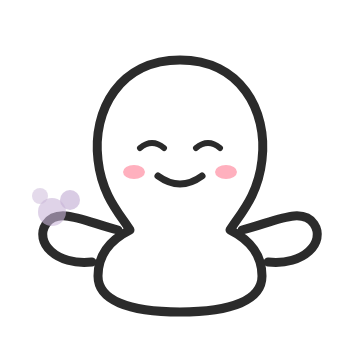
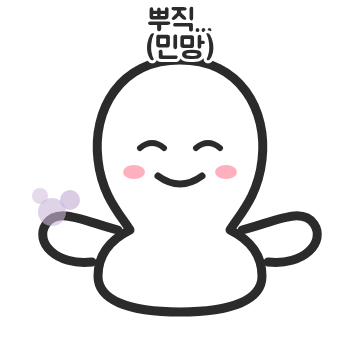
kakao-emoticon: A7(변기토리) 32종 정식 제작 — 대사 삽입 + 팔 포즈 보강
- 12종 데모를 32종 정식 세트로 확장, 문구 대사를 이미지에 직접 새겨넣음
  (Jua체, 흰 테두리로 가독성 확보, 긴 문구는 자동 2줄).
- 한글 폰트가 이 환경에 기본 설치 안 돼있어 Jua 폰트를 jsdelivr 경유로
  받아 설치(재현 방법 A7-toilet-humor.md에 기록).
- 팔 포즈 3종 신규 추가(prayer/wave_hello/warrior) + 기존 point_down 포즈
  좌표 개선(1차 시도에서 리본처럼 꼬였던 문제 완화).
- 아이콘(78x78) 제작 완료. 전량 17~22KB, 150KB 한도 대비 매우 가벼움.
- candidates.md 표 위치 정리(A7이 잘못된 섹션에 끼어있던 것 수정).

Changed region(s): [[0.3972, 0.0, 0.6111, 0.1833]]

diff --git a/kakao-emoticon/execution/products/toilet-lineart-a7/scripts/generate_svg.py b/kakao-emoticon/execution/products/toilet-lineart-a7/scripts/generate_svg.py
@@ -23,12 +23,14 @@ ARMS = {
     "up_both": 'M120,222 C92,196 66,164 48,176 C30,188 38,222 70,240 C92,252 112,244 120,222 M240,222 C268,196 294,164 312,176 C330,188 322,222 290,240 C268,252 248,244 240,222',
     "crossed": 'M120,226 C90,232 150,250 150,236 M240,226 C270,232 210,250 210,236',
     "hug_belly": 'M128,238 C104,252 96,276 122,282 C142,286 152,268 148,252 M232,238 C256,252 264,276 238,282 C218,286 208,268 212,252',
-    "one_up_one_down": 'M118,230 C86,222 58,206 46,224 C34,242 56,266 92,262 M244,224 C270,198 298,168 314,180 C330,192 320,222 292,238 C272,248 254,240 244,224',
-    "point_down": 'M118,230 C86,222 58,206 46,224 C34,242 56,266 92,262 M228,236 C232,262 236,286 216,296 C198,304 184,286 194,270 C202,258 214,244 228,236',
+    "point_down": 'M118,230 C86,222 58,206 46,224 C34,242 56,266 92,262 M228,224 C244,250 248,278 232,298 C224,308 210,300 214,286 C218,272 224,248 228,224',
     "wash": 'M132,220 C110,214 92,212 90,230 C88,248 112,254 134,246 M228,220 C250,214 268,212 270,230 C272,248 248,254 226,246',
     "shrug": 'M116,222 C82,208 50,208 44,228 C38,246 66,258 100,244 M244,222 C278,208 310,208 316,228 C322,246 294,258 260,244',
     "phone": 'M118,230 C86,222 58,206 46,224 C34,242 56,266 92,262 M238,214 C252,186 244,150 224,148 C210,147 204,164 214,178 C222,190 232,200 238,214',
     "block": 'M118,230 C86,222 58,206 46,224 C34,242 56,266 92,262 M232,198 C264,182 300,176 312,192 C324,208 300,222 268,220 C250,219 236,210 232,198',
+    "prayer": 'M130,224 C110,244 108,266 128,270 C144,273 156,258 152,244 C148,230 138,224 130,224 M230,224 C250,244 252,266 232,270 C216,273 204,258 208,244 C212,230 222,224 230,224',
+    "wave_hello": 'M118,230 C86,222 58,206 46,224 C34,242 56,266 92,262 M240,222 C268,196 296,166 306,140 C312,124 296,118 288,132 C282,144 268,168 252,190 C246,200 240,210 240,222',
+    "warrior": 'M130,224 C104,232 78,238 70,254 C64,266 78,280 96,270 C108,264 120,244 130,224 M230,224 C256,232 282,238 290,254 C296,266 282,280 264,270 C252,264 240,244 230,224',
 }
 
 EYEBROWS = {
@@ -72,6 +74,29 @@ ICONS = {
 BLUSH = '<ellipse cx="134" cy="172" rx="11" ry="7" fill="#FF8FA3" opacity="0.7"/><ellipse cx="226" cy="172" rx="11" ry="7" fill="#FF8FA3" opacity="0.7"/>'
 
 
+def build_text(text):
+    """대사를 몸통 위쪽에 Jua체로 굵게, 흰 테두리를 둘러 어떤 배경에서도 잘 읽히게 배치."""
+    if not text:
+        return ""
+    # 글자 수가 많으면 자동으로 두 줄로 나눔(카카오 대사형 이모티콘 관례)
+    if len(text) > 7 and " " in text:
+        mid = len(text) // 2
+        split_at = text.rfind(" ", 0, mid + 3)
+        if split_at == -1:
+            split_at = text.find(" ")
+        line1, line2 = text[:split_at], text[split_at + 1:]
+        return (
+            f'<text x="180" y="30" text-anchor="middle" font-family="Jua" font-size="30" '
+            f'fill="#2B2B2B" stroke="#ffffff" stroke-width="6" paint-order="stroke" stroke-linejoin="round">{line1}</text>'
+            f'<text x="180" y="58" text-anchor="middle" font-family="Jua" font-size="30" '
+            f'fill="#2B2B2B" stroke="#ffffff" stroke-width="6" paint-order="stroke" stroke-linejoin="round">{line2}</text>'
+        )
+    return (
+        f'<text x="180" y="44" text-anchor="middle" font-family="Jua" font-size="32" '
+        f'fill="#2B2B2B" stroke="#ffffff" stroke-width="6" paint-order="stroke" stroke-linejoin="round">{text}</text>'
+    )
+
+
 def build_svg(p):
     arms = ARMS[p["arms"]]
     eyebrows = EYEBROWS[p.get("eyebrows", "none")]
@@ -79,6 +104,7 @@ def build_svg(p):
     mouth = MOUTHS[p["mouth"]]
     icon = ICONS.get(p.get("icon", "none"), "")
     blush = BLUSH if p.get("blush", True) else ""
+    text = build_text(p.get("text", ""))
     return f'''<svg xmlns="http://www.w3.org/2000/svg" width="360" height="360" viewBox="0 0 360 360">
   <g fill="none" stroke="#2B2B2B" stroke-width="9" stroke-linecap="round" stroke-linejoin="round">
     <path d="{BODY}"/>
@@ -89,6 +115,7 @@ def build_svg(p):
   {mouth}
   {blush}
   {icon}
+  {text}
 </svg>
 '''
 

diff --git a/kakao-emoticon/execution/A7-toilet-humor.md b/kakao-emoticon/execution/A7-toilet-humor.md
@@ -1,0 +1,31 @@
+# A7 — "변기토리" 화장실 유머 이모티콘 (SVG 직접 제작)
+
+> 2026-08-15, 예슬 작성. 회장이 "레오나르도 없이 스스로 이미지 만들 수 있어?"라고 물은 데서 시작된 실험이 정식 시리즈로 발전했다.
+
+## 다른 시리즈와의 차이 — 제작 방식 자체가 다름
+
+- A3(일잘봇)·A4(새침냥이)·A6(몽글곰)은 전부 **Leonardo AI**로 생성한 래스터(JPG/PNG) 아트워크를 후처리한 것.
+- A7은 **외부 이미지 생성 AI를 전혀 쓰지 않는다.** 몸통 실루엣 하나를 SVG 경로로 고정해두고, 눈썹·눈·입·팔·아이콘·대사를 파이썬 딕셔너리 프리셋으로 조합해 32종을 코드로 직접 조립한 뒤 로컬 Chromium으로 PNG 렌더링한다. Leonardo의 "고정 시드+표정 교체" 원칙을 벡터로 재현한 것.
+- 장점: Leonardo API 크레딧 0원, 파일 용량 매우 가벼움(17~22KB, 150KB 한도의 1/7 수준), 캐릭터 일관성 100%(좌표 재사용이라 개체차 자체가 없음).
+- 단점: 유기적인 붓터치·그라데이션이 없어 스타일이 평면적. 팔 포즈 등 디테일을 늘리려면 사람이 좌표를 직접 조정해야 해서(AI처럼 프롬프트만 바꿔서 다양성이 안 나옴) 표현 폭에 품이 더 든다.
+
+## 캐릭터 컨셉 — "변기토리"
+
+- 정체성: 이름 없는 둥근 라인아트 캐�릭터(원래 몽글곰 SVG 데모의 몸통 실루엣)를 회장이 "변기통 같다"고 지적한 것을 그대로 살려 화장실 유머 전용 캐릭터로 채택.
+- 타겟: 일잘봇(직장인 유머)·새침냥이(반려동물)·몽글곰(커플)과 겹치지 않는 **화장실/생리현상 유머** — 카카오에서 꾸준히 잘 팔리는 검증된 장르(응가송류 캐릭터 다수 존재).
+- 표현 문법: 대사를 이미지에 직접 새겨 넣는(Jua체, 흰 테두리) 스타일 — 표정+대사 텍스트 조합으로 승부하는 카카오의 또 다른 주류 축(순수 표정형인 A3/A4/A6과 차별화).
+
+## 제작 방식 상세
+
+- `products/toilet-lineart-a7/scripts/generate_svg.py`: 몸통 고정 경로(BODY) + 팔 11종 프리셋(ARMS) + 눈썹 4종 + 눈 5종 + 입 7종 + 아이콘 9종 + 대사(Jua 폰트, 흰 테두리로 가독성 확보, 7자 넘고 공백 있으면 자동 2줄) 조합.
+- 한글 폰트가 이 실행환경에 기본 설치돼 있지 않아(Unifont만 있어 한글이 깨져 보임) Google Fonts "Jua"(jsdelivr CDN 경유)를 받아 `~/.fonts`에 설치해서 사용 — **세션이 바뀌면 이 폰트도 다시 설치해야 함**(재설치 방법: `curl -sSL -o ~/.fonts/Jua-Regular.ttf "https://cdn.jsdelivr.net/gh/google/fonts@main/ofl/jua/Jua-Regular.ttf" && fc-cache -f`).
+- `products/toilet-lineart-a7/scripts/render_png.mjs`: 로컬 Chromium(`/opt/pw-browsers/chromium-1194`)으로 SVG→PNG 렌더링. Cloudflare Browser Rendering이나 세션 프록시를 전혀 안 거침(로컬 파일 렌더링이라 네트워크 자체가 불필요) — 카카오 로그인 자동화와는 완전히 무관한 별도 경로.
+- 1차 시도(12종, 대사 없음)에서 5번(물 내려) 팔 포즈가 리본처럼 꼬여 나온 문제를 좌표 재조정으로 개선(완전히 매끄럽진 않지만 훨씬 나아짐).
+
+## 진행 상황
+
+- [x] 12종 데모(대사 없음) — 회장 피드백("변기통 같다") 반영해 컨셉 확정.
+- [x] 32종 정식 제작 완료(2026-08-15) — 대사(Jua체, 흰 테두리) 추가, 팔 포즈 3종 신규(`prayer`·`wave_hello`·`warrior`) + 기존 포즈 보강. 전량 17~22KB.
+- [x] 아이콘 이미지(78×78) 제작 완료 — `33-icon-78x78.png`(04번 "아 시원해" 기반, 5.0KB).
+- [ ] 회장 육안 확인 요청.
+- [ ] 실제 제출 — A4에서 검증한 카카오 자동 제출 흐름 재사용 예정(시리즈명은 "변기토리"로 신규 등록).

diff --git a/kakao-emoticon/candidates.md b/kakao-emoticon/candidates.md
@@ -8,6 +8,7 @@
 | A4 | 카카오톡 이모티콘 32종(정지형, "새침냥이") | 카카오 이모티콘 스튜디오 개인 창작자 | 🟡 제작·제출 폼 작성 완료, 회장 최종 확인 대기(2026-08-15) — 상세는 [`execution/A4-second-series.md`](execution/A4-second-series.md) |
 | A5 | 라인 스티커샵(일잘봇 32종 재활용) | LINE Creators Market | 🟡 자산 제작 완료, 회장이 계정 직접 가입 진행 중(2026-08-15) — 상세는 [`execution/A5-line-sticker-shop.md`](execution/A5-line-sticker-shop.md) |
 | A6 | 카카오톡 이모티콘 32종(정지형, "몽글곰", 가칭 — 커플/연애 타겟) | 카카오 이모티콘 스튜디오 개인 창작자 | 🟡 32종 전체 제작 완료(2026-08-15), 아이콘 제작 + 제출 남음 — 상세는 [`execution/A6-couple-bear.md`](execution/A6-couple-bear.md) |
+| A7 | 화장실 유머 32종(라인아트, "변기토리") — SVG 직접 제작, Leonardo 미사용 | 카카오 이모티콘 스튜디오 개인 창작자 | 🟡 32종+아이콘 제작 완료(2026-08-15), 회장 확인 대기 — 상세는 [`execution/A7-toilet-humor.md`](execution/A7-toilet-humor.md) |
 
 ## 향후 확장 후보
 
@@ -23,10 +24,6 @@
 - **우리 자산 재활용성 높음**: 기존 360×360 정사각 아트워크(일잘봇·새침냥이 각 32종)를 370×320 캔버스에 리사이즈+중앙배치만 하면 됨 — 새 이미지 생성 없이 후처리만으로 제작 가능.
 - **계정 가입은 회장 승인 필요(2026-08-11 보류 원칙)** — 예슬이 먼저 가입 시도하지 않고, 자산만 제작해두고 승인 후 회장이 가입하거나 예슬이 승인받고 진행.
 - 진행 상황: [`execution/A5-line-sticker-shop.md`](execution/A5-line-sticker-shop.md)
-
-### A7 — SVG 직접 제작 실험 + 화장실 유머 세트 "변기토리" (2026-08-15, 가벼운 데모)
-
-회장 질문("레오나르도 없이 스스로 이미지 만들 수 있어?")에서 시작된 실험. 결론: **Claude 자체엔 이미지 생성 기능이 없지만, SVG를 코드로 직접 그려서 PNG로 렌더링하는 건 가능**하다(외부 AI 미사용). 여러 스타일(채색 캐릭터·라인아트·이모지 얼굴·사물 의인화)을 시도해본 뒤, 라인아트 컨셉(회장이 "변기통 같다"고 지적)을 그대로 살려 **화장실 유머 12종을 실제로 제작**했다 — `products/toilet-lineart-a7/`. 몸통 실루엣은 고정하고 눈썹·눈·입·팔·아이콘을 파이썬 딕셔너리 프리셋으로 조합하는 방식(Leonardo의 "고정 시드+표정 교체" 원칙을 벡터로 재현). 전량 13~17KB로 매우 가볍다. 5번(물 내려) 포즈의 팔 모양이 의도한 "가리키기"보다 리본처럼 나온 점 등 다듬을 곳은 있음 — 정식 시리즈로 확장할지는 회장 판단 대기.
 
 ### 움직이는 이모티콘(카카오, A3-2, 가칭) — 리서치 완료, 착수는 A3 승인 확인 후 (기존 방침 유지)
 
